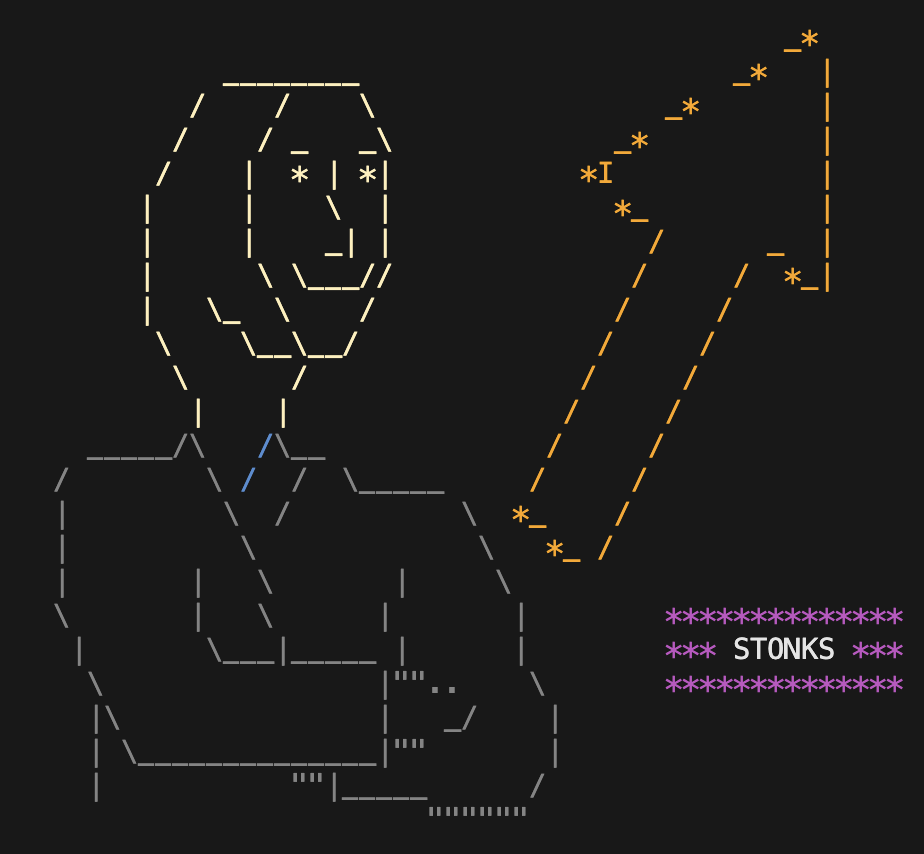
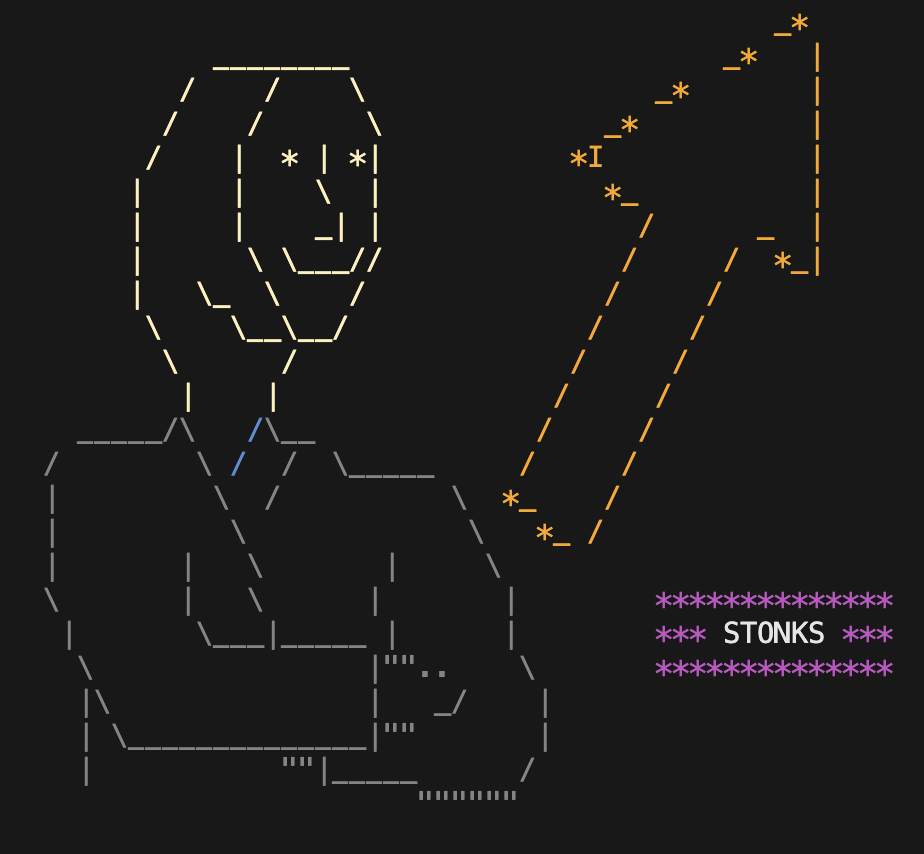
perf(index): removed eyebrows

diff --git a/index.js b/index.js
@@ -11,7 +11,7 @@ const showStonksGuy = function () {
                                                  ${arrowColor}_*
                 ${skinColor}________${bgColor}                      ${arrowColor}_*   |
               ${skinColor}/    /    \\${bgColor}                 ${arrowColor}_*       |
-             ${skinColor}/    / _   _\\${bgColor}             ${arrowColor}_*          |
+             ${skinColor}/    /      \\${bgColor}             ${arrowColor}_*          |
             ${skinColor}/    |  * | *|${bgColor}           ${arrowColor}*I            |
            ${skinColor}|     |    \\  |${bgColor}             ${arrowColor}*_          |
            ${skinColor}|     |    _| |${bgColor}               ${arrowColor}/      _  |
